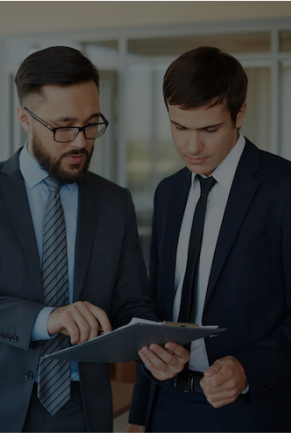
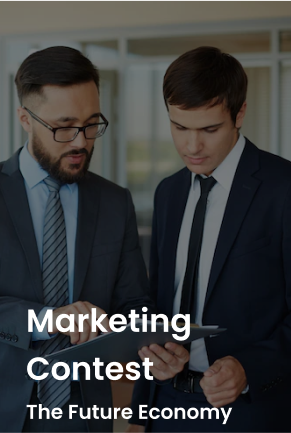
create and style for cometition section

Changed region(s): [[0.0928, 0.6905, 0.6495, 0.8106], [0.0928, 0.9307, 0.8041, 0.9908], [0.0928, 0.8106, 0.5258, 0.9007]]

diff --git a/src/components/competition.html b/src/components/competition.html
@@ -1,34 +1,34 @@
-<section class="popular">
+<section class="compet">
   <div class="container">
-    <h3>Popular examination</h3>
+    <h3>Featured Competition</h3>
     <p>See all</p>
-    <div class="container-popular">
-      <div class="popular-group">
+    <div class="container-compet">
+      <div class="compet-group">
         <include
           src="./components/list-img.html"
           locals='{
-                        "list": "[`../assets/img/popular-exam/natural.png`]"
+                        "list": "[`../assets/img/feature-comp/marketing-comp.png`]"
                           }'
         >
         </include>
         <include
           src="./components/list-img.html"
           locals='{
-                                        "list": "[`../assets/img/popular-exam/22.png`]"
+                                        "list": "[`../assets/img/feature-comp/ux-Design.png`]"
                                           }'
         >
         </include>
         <include
           src="./components/list-img.html"
           locals='{
-                                        "list": "[`../assets/img//popular-exam/data.png`]"
+                                        "list": "[`../assets/img/feature-comp/proraming-com[.png`]"
                                           }'
         >
         </include>
         <include
           src="./components/list-img.html"
           locals='{
-                                        "list": "[`../assets/img/popular-exam/Advance.png`]"
+                                        "list": "[`../assets/img/feature-comp/photo-comp.png`]"
                                           }'
         >
         </include>

diff --git a/src/stylesheets/component/_competition.scss b/src/stylesheets/component/_competition.scss
@@ -1,0 +1,86 @@
+@use "../abstract/" as *;
+
+.compet {
+  margin-top: 8rem;
+
+  h3 {
+    @include mobile {
+      font-size: 24px;
+      font-weight: 600;
+      line-height: 36px;
+      letter-spacing: 0em;
+      text-align: center;
+    }
+  }
+  p {
+    font-family: "Popins";
+    text-align: right;
+    color: $li-hover;
+    @include mobile {
+      margin: 0;
+      font-size: 14px;
+      font-weight: 400;
+      line-height: 21px;
+      letter-spacing: 0em;
+    }
+  }
+
+  .container-compet {
+    margin-top: 1rem;
+    .compet-group {
+      display: grid;
+      grid-template-columns: 1fr 1fr 1fr 1fr;
+      grid-template-rows: auto;
+      gap: 2rem;
+      overflow-x: scroll;
+
+      @include mobile {
+        gap: 2px;
+      }
+
+      .feature-imgitem {
+        figure {
+          height: 100%;
+
+          @include mobile {
+            border-radius: 5px;
+          }
+
+          img {
+            width: 100%;
+            height: 100%;
+
+            @include tablet {
+            }
+
+            @include mobile {
+              width: 116px;
+              height: 133px;
+              border-radius: 5px;
+            }
+          }
+        }
+      }
+    }
+
+    .arrow-horizon {
+      @include flex($direction: row, $justify: space-between, $align: center);
+      padding: 0 2rem;
+      transform: translateY(-18rem);
+      @include mobile {
+        display: none;
+      }
+
+      @include tablet {
+        display: none;
+      }
+
+      .button-horizon {
+        border-radius: 50%;
+        color: $text-color;
+        padding: 1.4rem 1.6rem;
+        font-size: 40px;
+      }
+    }
+  }
+}

diff --git a/src/layouts/main.html b/src/layouts/main.html
@@ -1,15 +1,11 @@
 <main class="main">
-    <div class="box">
-        <!-- <include src="./components/top-categories.html"></include>
+  <div class="box">
+    <!-- <include src="./components/top-categories.html"></include>
         <include src="./components/experts.html"></include>
         <include src="./components/course.html"></include>
         <include src="./components/examination.html"></include> -->
-        <!-- <include src="./components/popular.html"></include> -->
-        <include src="./components/register.html"></include>
-    </div>
+    <!-- <include src="./components/popular.html"></include> -->
+    <!-- <include src="./components/register.html"></include> -->
+    <include src="./components/competition.html"></include>
+  </div>
 </main>
-
-
-
-
-

diff --git a/src/stylesheets/component/_index.scss b/src/stylesheets/component/_index.scss
@@ -1,13 +1,9 @@
-@forward 'nav';
-@forward 'card-rating';
-@forward 'top-categories';
-@forward 'experts';
-@forward 'course';
-@forward 'examination';
-@forward 'popular';
-@forward 'register';
-
-
-
-
-
+@forward "nav";
+@forward "card-rating";
+@forward "top-categories";
+@forward "experts";
+@forward "course";
+@forward "examination";
+@forward "popular";
+@forward "register";
+@forward "competition";
